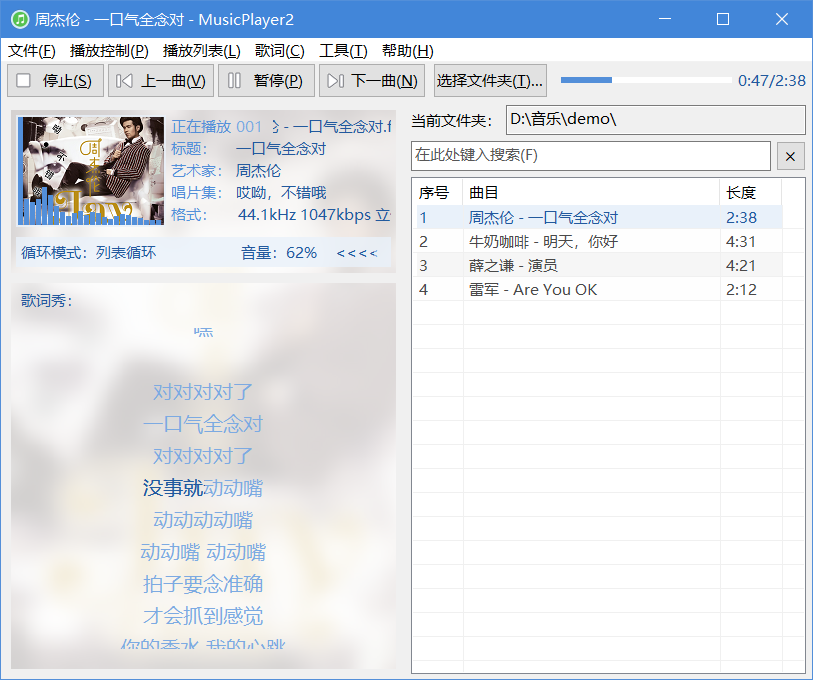
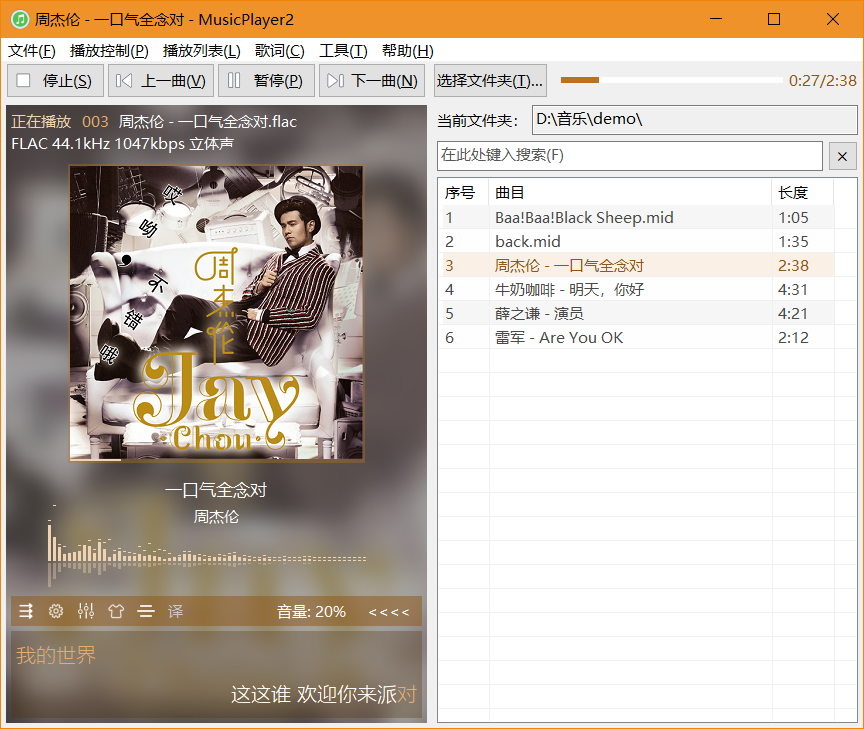
更新version.info；更新截图；更新文档

diff --git a/README_en-us.md b/README_en-us.md
@@ -31,16 +31,14 @@ You have the following ways to open and play a song:<br>
 5. Drag and drop the file or folder directly onto the program's icon or its shortcut icon.<br>
 # Screen shoots
 Main window：<br>
-![](https://github.com/zhongyang219/MusicPlayer2/raw/master/Screenshots/Main_window.png)<br>
-Main window (when the window width becomes smaller):<br>
-![](https://github.com/zhongyang219/MusicPlayer2/raw/master/Screenshots/Main_window2.png)<br>
+![](https://github.com/zhongyang219/MusicPlayer2/raw/master/Screenshots/en_us/Main_window.png)<br>
+Main window (Without album cover):<br>
+![](https://github.com/zhongyang219/MusicPlayer2/raw/master/Screenshots/en_us/Main_window2.png)<br>
 Mini mode:<br>
 ![](https://github.com/zhongyang219/MusicPlayer2/raw/master/Screenshots/Mini_mode.png)<br>
 Show lyrics in Cortana search box<br>
 ![](https://github.com/zhongyang219/MusicPlayer2/raw/master/Screenshots/Cortana_lyric.png)<br>
-Option settings<br>
-![](https://github.com/zhongyang219/MusicPlayer2/raw/master/Screenshots/options.png)<br>
-Lyric download<br>
-![](https://github.com/zhongyang219/MusicPlayer2/raw/master/Screenshots/Lyric_download.png)<br>
-Lyric batch download<br>
-![](https://github.com/zhongyang219/MusicPlayer2/raw/master/Screenshots/Lyric_batch_download.png)<br>
+Option settings - Appearance Settings<br>
+![](https://github.com/zhongyang219/MusicPlayer2/raw/master/Screenshots/en_us/options.png)<br>
+Option settings - General Settings<br>
+![](https://github.com/zhongyang219/MusicPlayer2/raw/master/Screenshots/en_us/options2.png)<br>
